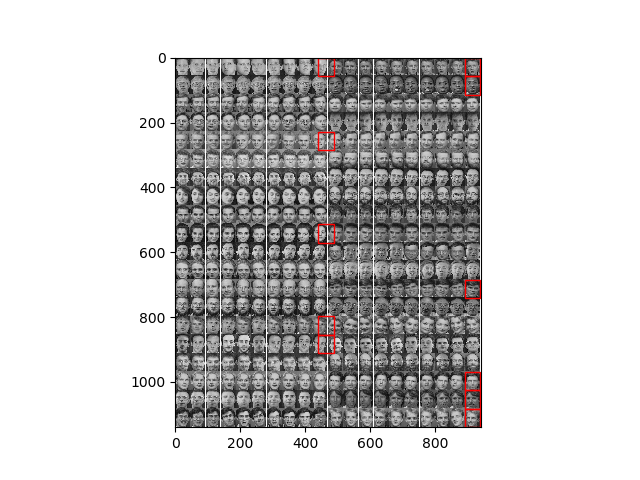
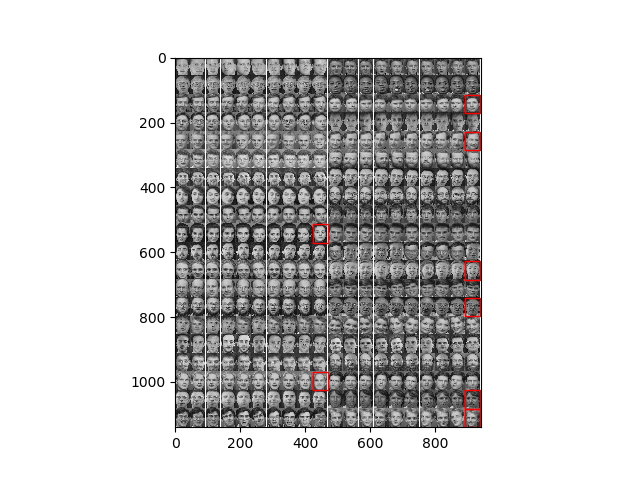
adjustCodeSetOfTrainingModel

diff --git a/FaceRecognition/src/runModel.py b/FaceRecognition/src/runModel.py
@@ -1,6 +1,6 @@
-#coding=utf-8
-#tensorflow 1.3.1
-#python 3.6
+# coding=utf-8
+# tensorflow 1.3.1
+# python 3.6
 import os
 
 import matplotlib.image as mpimg
@@ -11,12 +11,12 @@ import tensorflow as tf
 from PIL import Image
 
 
-#获取dataset
+# 获取dataset
 def load_data(dataset_path):
     img = Image.open(dataset_path)
     # 定义一个20 × 20的训练样本，一共有40个人，每个人都10张样本照片
     img_ndarray = np.asarray(img, dtype='float64') / 256
-    #img_ndarray = np.asarray(img, dtype='float32') / 32
+    # img_ndarray = np.asarray(img, dtype='float32') / 32
 
     # 记录脸数据矩阵，57 * 47为每张脸的像素矩阵
     # 40*10张照片
@@ -25,10 +25,10 @@ def load_data(dataset_path):
     for row in range(20):
         for column in range(20):
             faces[20 * row + column] = np.ndarray.flatten(
-                img_ndarray[row * 57: (row + 1) * 57, column * 47 : (column + 1) * 47]
+                img_ndarray[row * 57: (row + 1) * 57, column * 47: (column + 1) * 47]
             )
 
-    # then,we get a mat with shape of (400, 57*47), 2d mat
+    # then,we get a mat with shape of (400, 57*47), 2d mat, this is dataSource of faces
 
 
     label = np.zeros((400, 40))
@@ -36,14 +36,19 @@ def load_data(dataset_path):
         label[i * 10: (i + 1) * 10, i] = 1
 
     # 将数据分成训练集，验证集，测试集
+    # choose 320 people's data as training dataset
     train_data = np.empty((320, 57 * 47))
     train_label = np.zeros((320, 40))
+
+    # choose other 40 as valid dataset
     vaild_data = np.empty((40, 57 * 47))
     vaild_label = np.zeros((40, 40))
+
     test_data = np.empty((40, 57 * 47))
     test_label = np.zeros((40, 40))
 
     for i in range(40):
+        # everybody has 10 pictures, 1-8 as training , 9-10 as valid and test data set
         train_data[i * 8: i * 8 + 8] = faces[i * 10: i * 10 + 8]
         train_label[i * 8: i * 8 + 8] = label[i * 10: i * 10 + 8]
 
@@ -53,6 +58,7 @@ def load_data(dataset_path):
         test_data[i] = faces[i * 10 + 9]
         test_label[i] = label[i * 10 + 9]
 
+    # transfer value in pixels from int to float
     train_data = train_data.astype('float32')
     vaild_data = vaild_data.astype('float32')
     test_data = test_data.astype('float32')
@@ -63,6 +69,7 @@ def load_data(dataset_path):
         (test_data, test_label)
     ]
 
+
 def convolutional_layer(data, kernel_size, bias_size, pooling_size):
     kernel = tf.get_variable("conv", kernel_size, initializer=tf.random_normal_initializer())
     bias = tf.get_variable('bias', bias_size, initializer=tf.random_normal_initializer())
@@ -72,22 +79,24 @@ def convolutional_layer(data, kernel_size, bias_size, pooling_size):
     pooling = tf.nn.max_pool(linear_output, ksize=pooling_size, strides=pooling_size, padding="SAME")
     return pooling
 
+
 def linear_layer(data, weights_size, biases_size):
     weights = tf.get_variable("weigths", weights_size, initializer=tf.random_normal_initializer())
     biases = tf.get_variable("biases", biases_size, initializer=tf.random_normal_initializer())
     return tf.add(tf.matmul(data, weights), biases)
 
+
 def convolutional_neural_network(data):
     # 根据类别个数定义最后输出层的神经元
     n_ouput_layer = 40
 
-    kernel_shape1=[5, 5, 1, 32]
-    kernel_shape2=[5, 5, 32, 64]
+    kernel_shape1 = [5, 5, 1, 32]
+    kernel_shape2 = [5, 5, 32, 64]
     full_conn_w_shape = [15 * 12 * 64, 1024]
     out_w_shape = [1024, n_ouput_layer]
 
-    bias_shape1=[32]
-    bias_shape2=[64]
+    bias_shape1 = [32]
+    bias_shape2 = [64]
     full_conn_b_shape = [1024]
     out_b_shape = [n_ouput_layer]
 
@@ -129,7 +138,8 @@ def convolutional_neural_network(data):
 
     return output;
 
-def train_facedata(dataset, model_dir,model_path):
+
+def train_facedata(dataset, model_dir, model_path):
     # train_set_x = data[0][0]
     # train_set_y = data[0][1]
     # valid_set_x = data[1][0]
@@ -146,8 +156,10 @@ def train_facedata(dataset, model_dir,model_path):
     # test_set_x, test_set_y = dataset[2]
     train_set_x = dataset[0][0]
     train_set_y = dataset[0][1]
+
     valid_set_x = dataset[1][0]
     valid_set_y = dataset[1][1]
+
     test_set_x = dataset[2][0]
     test_set_y = dataset[2][1]
 
@@ -160,34 +172,43 @@ def train_facedata(dataset, model_dir,model_path):
 
     # 用于保存训练的最佳模型
     saver = tf.train.Saver()
-    #model_dir = './model'
-    #model_path = model_dir + '/best.ckpt'
+    # model_dir = './model'
+    # model_path = model_dir + '/best.ckpt'
     with tf.Session() as session:
+        # define training times
+        trainingTimes = 50
         # 若不存在模型数据，需要训练模型参数
         if not os.path.exists(model_path + ".index"):
+            print("No model can be used, start training for %s times ......" % str(trainingTimes))
             session.run(tf.global_variables_initializer())
-            best_loss = float('Inf')
-            for epoch in range(20):
-                epoch_loss = 0
-                for i in range((int)(np.shape(train_set_x)[0] / batch_size)):
-                    x = train_set_x[i * batch_size: (i + 1) * batch_size]
-                    y = train_set_y[i * batch_size: (i + 1) * batch_size]
-                    _, cost = session.run([optimizer, cost_func], feed_dict={X: x, Y: y})
-                    epoch_loss += cost
+        else:
+            trainingTimes = 10
+            print("Model exists, start training for only %s times ......" % str(trainingTimes))
+            saver.restore(session, model_path)
 
-                print(epoch, ' : ', epoch_loss)
-                if best_loss > epoch_loss:
-                    best_loss = epoch_loss
-                    if not os.path.exists(model_dir):
-                        os.mkdir(model_dir)
-                        print("create the directory: %s" % model_dir)
-                    save_path = saver.save(session, model_path)
-                    print("Model saved in file: %s" % save_path)
+        # start training
+        best_loss = float('Inf')
+        for epoch in range(trainingTimes):
+            epoch_loss = 0
+            for i in range((int)(np.shape(train_set_x)[0] / batch_size)):
+                x = train_set_x[i * batch_size: (i + 1) * batch_size]
+                y = train_set_y[i * batch_size: (i + 1) * batch_size]
+                _, cost = session.run([optimizer, cost_func], feed_dict={X: x, Y: y})
+                epoch_loss += cost
+
+            print(epoch, ' : ', epoch_loss)
+            if epoch_loss <= best_loss or abs(best_loss - epoch_loss) <= 1e-1:
+                best_loss = epoch_loss
+                if not os.path.exists(model_dir):
+                    os.mkdir(model_dir)
+                    print("create the directory: %s" % model_dir)
+                save_path = saver.save(session, model_path)
+                print("Model saved in file: %s" % save_path)
 
         # 恢复数据并校验和测试
         saver.restore(session, model_path)
-        correct = tf.equal(tf.argmax(predict,1), tf.argmax(Y,1))
-        valid_accuracy = tf.reduce_mean(tf.cast(correct,'float'))
+        correct = tf.equal(tf.argmax(predict, 1), tf.argmax(Y, 1))
+        valid_accuracy = tf.reduce_mean(tf.cast(correct, 'float'))
         print('valid set accuracy: ', valid_accuracy.eval({X: valid_set_x, Y: valid_set_y}))
 
         test_pred = tf.argmax(predict, 1).eval({X: test_set_x})
@@ -196,11 +217,11 @@ def train_facedata(dataset, model_dir,model_path):
         incorrect_index = [i for i in range(np.shape(test_correct)[0]) if not test_correct[i]]
         for i in incorrect_index:
             print('picture person is %i, but mis-predicted as person %i'
-                %(test_true[i], test_pred[i]))
+                  % (test_true[i], test_pred[i]))
         plot_errordata(incorrect_index, "../data/olivettifaces.gif")
 
 
-#画出在测试集中错误的数据
+# 画出在测试集中错误的数据
 def plot_errordata(error_index, dataset_path):
     img = mpimg.imread(dataset_path)
     plt.imshow(img)
@@ -210,8 +231,9 @@ def plot_errordata(error_index, dataset_path):
         column = index % 2
         currentAxis.add_patch(
             patches.Rectangle(
-                xy=(49 * 9 if column == 0 else 47 * 19,
-                     row * 57
+                xy=(47 * 9 if column == 0
+                    else 47 * 19,
+                    row * 57
                     ),
                 width=47,
                 height=57,
@@ -219,7 +241,7 @@ def plot_errordata(error_index, dataset_path):
                 edgecolor='r',
                 facecolor='none'
             )
-    )
+        )
     plt.savefig("result.png")
     plt.show()
 
@@ -227,10 +249,10 @@ def plot_errordata(error_index, dataset_path):
 def main():
     dataset_path = "../data/olivettifaces.gif"
     data = load_data(dataset_path)
-    print(len(data[0]))
     model_dir = './model'
     model_path = model_dir + '/best.ckpt'
     train_facedata(data, model_dir, model_path)
 
-if __name__ == "__main__" :
+
+if __name__ == "__main__":
     main()

diff --git a/FaceRecognition/src/testUnfamiliarFunc.py b/FaceRecognition/src/testUnfamiliarFunc.py
@@ -43,9 +43,20 @@ def use_array_and_ndarray():
     arr9 = arr8.reshape((3,3))
     print(arr9)
 
+def use_tf_argmax():
+    data = [[1,3,4,2], [2,1,0,9]]
+    arr = np.array(data)
+    # argmax(arr, 0)  search based on column
+    print(np.argmax(arr,0))
+
+    # argmax(arr, 1)  search based on row
+    print(np.argmax(arr, 1))
+
+
 
 
 if __name__ == "__main__":
     # print(use_np_array())
     # print(use_np_empty())
-    use_array_and_ndarray()
+    # use_array_and_ndarray()
+    use_tf_argmax()
